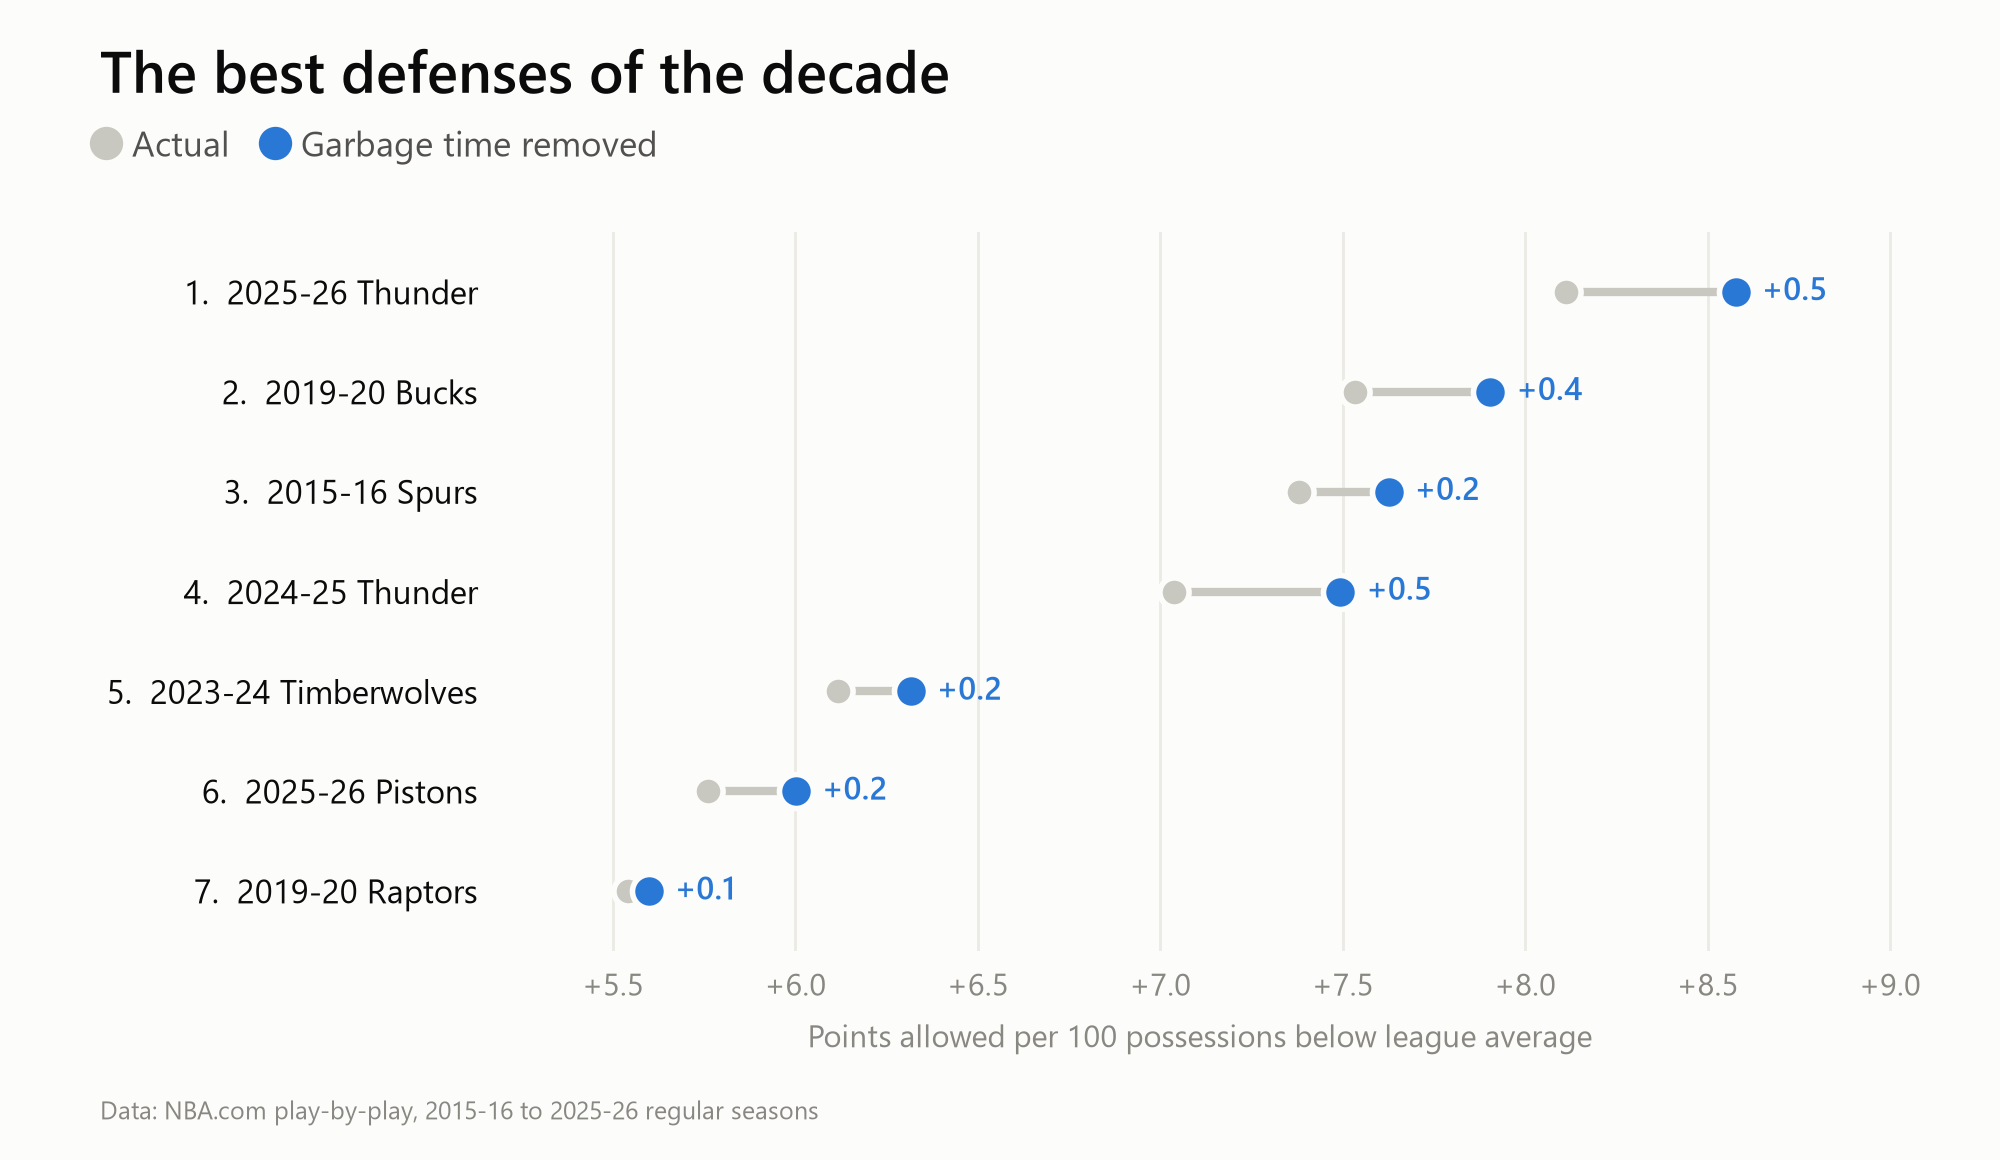
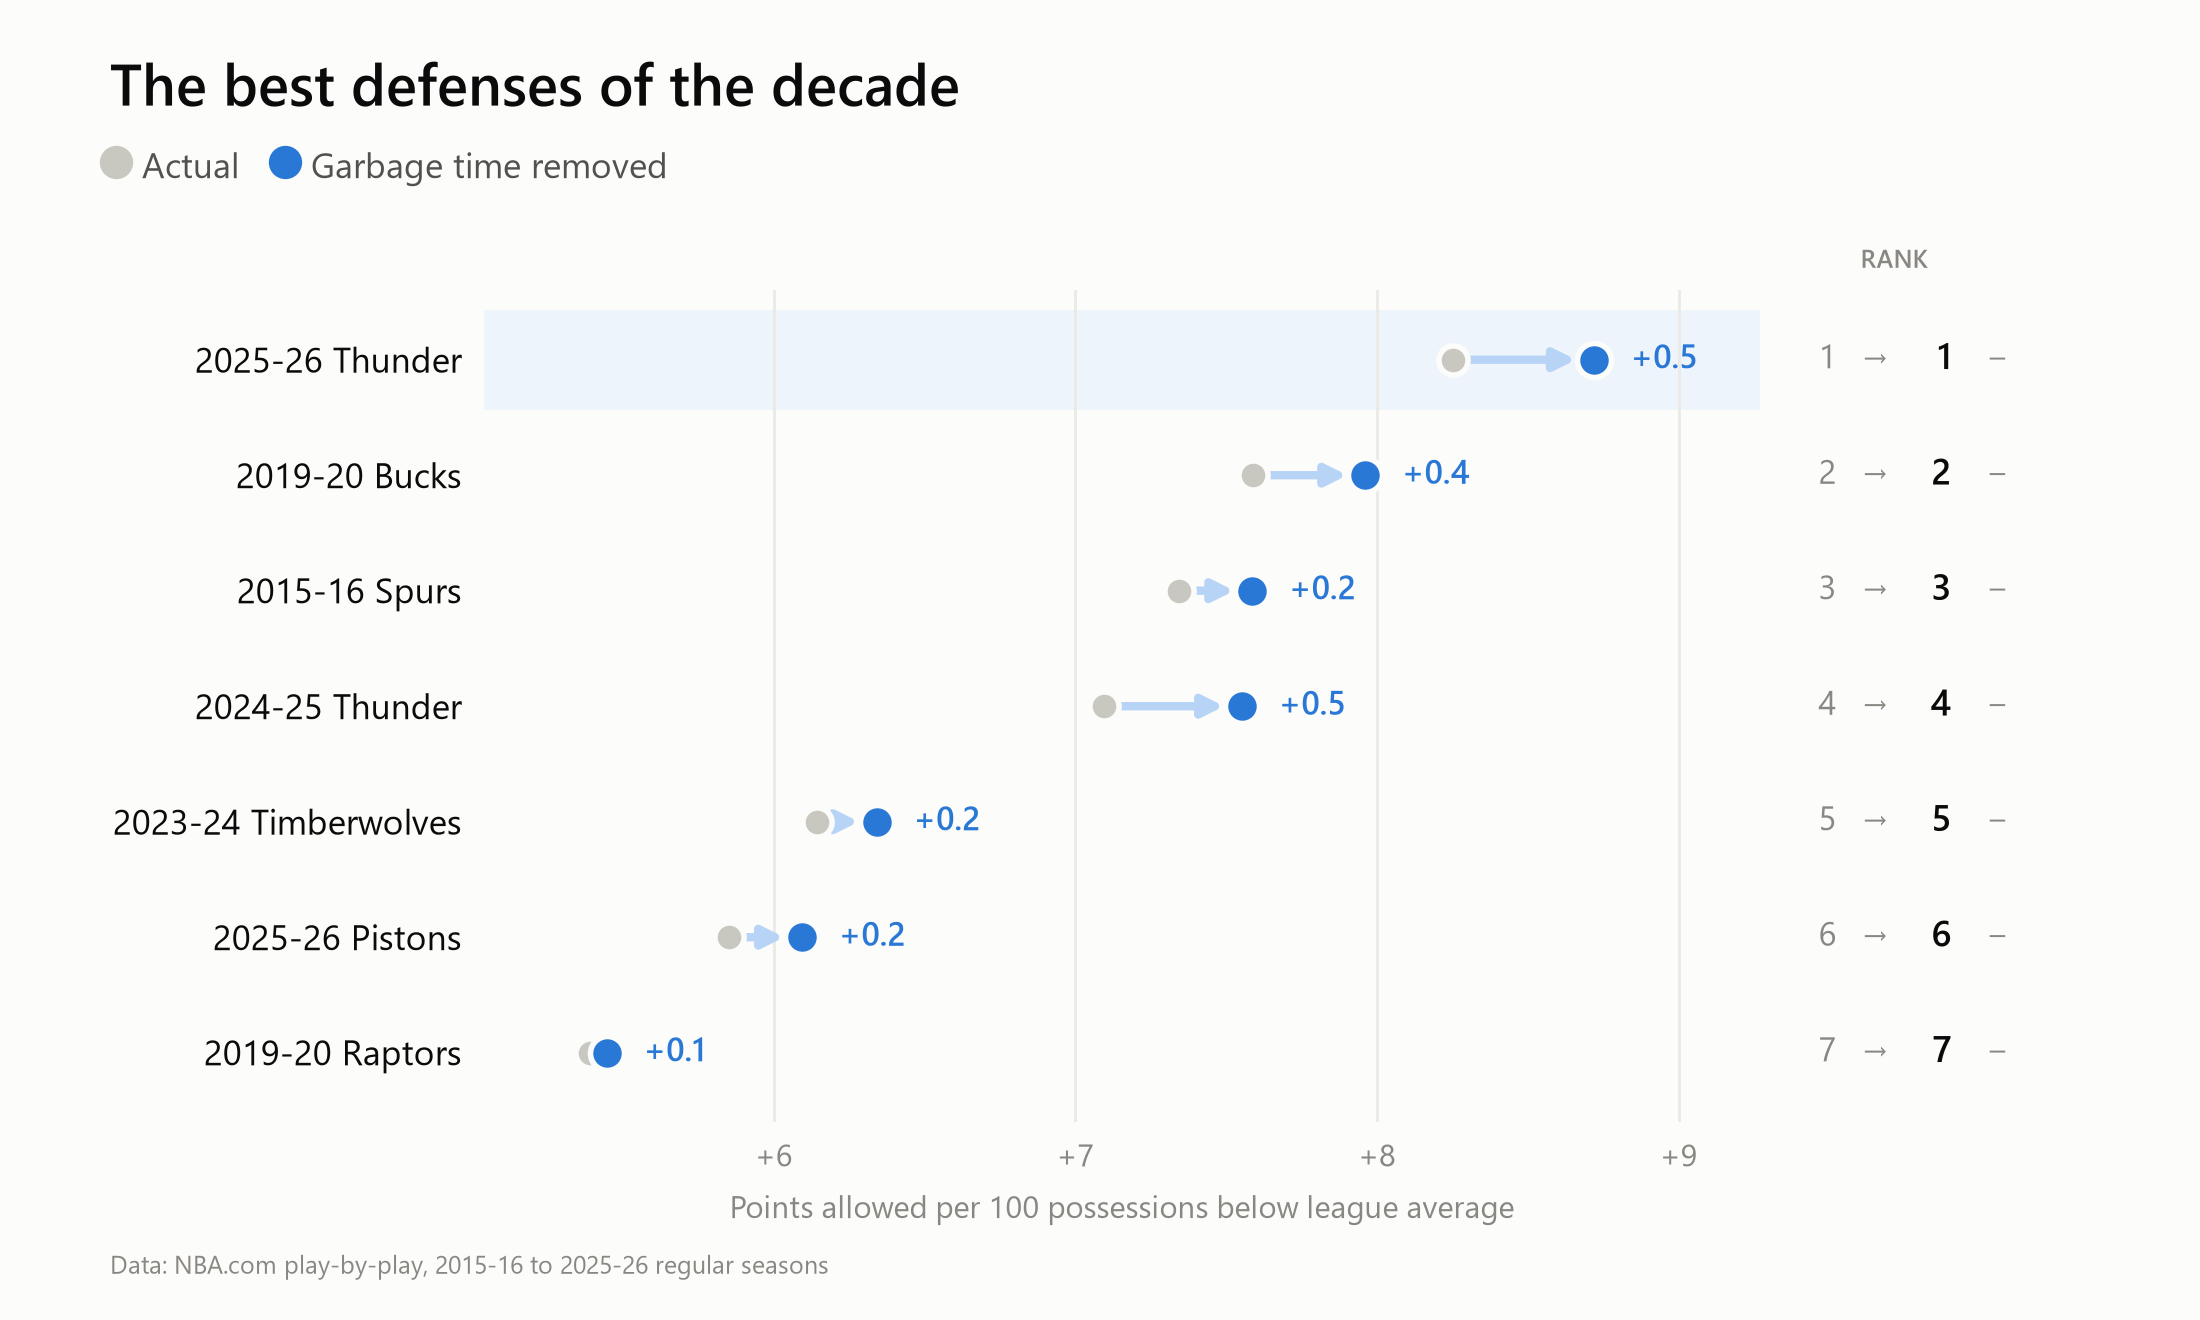
added article link on medium

diff --git a/make_article_charts.py b/make_article_charts.py
@@ -290,11 +290,21 @@ def chart_top_units(ratings):
         lambda x: 100 * x.actual_pts.sum() / x.actual_poss.sum(), include_groups=False)
     lg_m = r.groupby("season").apply(
         lambda x: 100 * x.mercy_pts.sum() / x.mercy_poss.sum(), include_groups=False)
-    r["off_a"] = r.actual_ortg - r.season.map(lg_a)
-    r["off_m"] = r.mercy_ortg - r.season.map(lg_m)
+    # Offense and defense on NBA.com's official base, like the tables (10/11):
+    # after = official rating + our play-by-play change, against a league
+    # average shifted by the same play-by-play change.
+    o = official_ratings()
+    r = r.merge(o[["season", "TEAM_NAME", "OFF_RATING", "DEF_RATING",
+                   "LG_OFF_RATING", "LG_DEF_RATING"]],
+                left_on=["season", "team"], right_on=["season", "TEAM_NAME"], how="left")
+    if r.OFF_RATING.isna().any():
+        raise ValueError("Team names did not match the official ratings")
+    shift = r.season.map(lg_m) - r.season.map(lg_a)
+    r["off_a"] = r.OFF_RATING - r.LG_OFF_RATING
+    r["off_m"] = (r.OFF_RATING + r.mercy_ortg - r.actual_ortg) - (r.LG_OFF_RATING + shift)
     # Defense flipped so that "better than average" is positive / to the right.
-    r["def_a"] = r.season.map(lg_a) - r.actual_drtg
-    r["def_m"] = r.season.map(lg_m) - r.mercy_drtg
+    r["def_a"] = r.LG_DEF_RATING - r.DEF_RATING
+    r["def_m"] = (r.LG_DEF_RATING + shift) - (r.DEF_RATING + r.mercy_drtg - r.actual_drtg)
 
     # Net rating on NBA.com's official base (it is comparable across seasons),
     # so the chart matches nba.com/stats and team_ratings_2015-2026.csv.
@@ -315,8 +325,7 @@ def chart_top_units(ratings):
     ):
         r["rank_before"] = r[f"{side}_a"].rank(ascending=False, method="min").astype(int)
         r["rank_after"] = r[f"{side}_m"].rank(ascending=False, method="min").astype(int)
-        dumbbell(r.nsmallest(7, "rank_after"), f"{side}_a", f"{side}_m",
-                 title, xlabel, name)
+        rank_chart(r, f"{side}_a", f"{side}_m", title, xlabel, name)
         top = r[(r.rank_before <= 7) | (r.rank_after <= 7)]
         panels.append((("Offense" if side == "off" else "Defense"),
                        top[["season", "team", "rank_before", "rank_after"]].copy()))
@@ -325,24 +334,38 @@ def chart_top_units(ratings):
 
 def chart_best_net(r, n=7, worst=False):
     """Best (or worst) net ratings: each team's change plus its rank before -> after."""
-    r = r.copy()
-    r["rank_before"] = r.net_a.rank(ascending=worst, method="min").astype(int)
-    r["rank_after"] = r.net_m.rank(ascending=worst, method="min").astype(int)
-    data = r[(r.rank_before <= n) | (r.rank_after <= n)]
-    data = data.sort_values(["rank_after", "net_m"], ascending=[True, worst]).iloc[::-1]
+    rank_chart(r, "net_a", "net_m",
+               f"The {'worst' if worst else 'best'} teams of the decade",
+               "Net rating (point differential per 100 possessions)",
+               "14_worst_net_ratings.png" if worst else "09_top_net_ratings.png",
+               n=n, worst=worst)
 
-    title = f"The {'worst' if worst else 'best'} teams of the decade"
-    fig, ax = frame(title, figsize=(11, 6.6), left=0.22)
+
+def rank_chart(r, col_a, col_m, title, xlabel, name, n=7, worst=False, ascending=None):
+    """Arrows from actual to no-garbage-time value, plus a rank before -> after column.
+
+    worst: the list ranks bad teams (moving up the list is bad, colored orange).
+    ascending: rank 1 is the lowest value (defaults to `worst`, as for net rating).
+    """
+    if ascending is None:
+        ascending = worst
+    r = r[["season", "team", col_a, col_m]].rename(columns={col_a: "net_a", col_m: "net_m"})
+    r["rank_before"] = r.net_a.rank(ascending=ascending, method="min").astype(int)
+    r["rank_after"] = r.net_m.rank(ascending=ascending, method="min").astype(int)
+    data = r[(r.rank_before <= n) | (r.rank_after <= n)]
+    data = data.sort_values(["rank_after", "net_m"], ascending=[True, ascending]).iloc[::-1]
+
+    fig, ax = frame(title, figsize=(11, 6.6 + 0.45 * max(0, len(data) - 8)), left=0.22)
     fig.subplots_adjust(right=0.80, bottom=0.15, top=0.78)
     legend_line(fig, [("●", BEFORE, False), (" Actual    ", INK_2, False),
                       ("●", BLUE, False), (" Garbage time removed", INK_2, False)])
     y = list(range(len(data)))
     lo, hi = min(data.net_a.min(), data.net_m.min()), max(data.net_a.max(), data.net_m.max())
-    ax.set_xlim(lo - (0.75 if worst else 0.35), hi + (0.35 if worst else 0.55))
+    ax.set_xlim(lo - (0.75 if ascending else 0.35), hi + (0.35 if ascending else 0.55))
     ax.set_ylim(-0.6, len(data) - 0.4)
 
     change = data.net_m - data.net_a
-    biggest = change.idxmin() if worst else change.idxmax()
+    biggest = change.idxmin() if ascending else change.idxmax()
     for i, row in enumerate(data.itertuples()):
         if row.Index == biggest:
             ax.axhspan(i - 0.42, i + 0.42, color="#fdeee7" if worst else "#eef4fc",
@@ -352,13 +375,15 @@ def chart_best_net(r, n=7, worst=False):
                     arrowprops=dict(arrowstyle="-|>,head_width=0.25,head_length=0.5",
                                     color=BLUE_LIGHT, linewidth=3, shrinkA=4, shrinkB=0),
                     zorder=1)
-        text = f"{row.net_m - row.net_a:+.1f}".replace("-", "−")
-        if worst:
+        diff = round(row.net_m - row.net_a, 1)
+        text = "no change" if diff == 0 else f"{diff:+.1f}".replace("-", "−")
+        ink = MUTED if diff == 0 else BLUE
+        if ascending:
             ax.text(min(row.net_a, row.net_m) - 0.12, i, text, ha="right",
-                    va="center", fontsize=12, fontname=FONT_BOLD, color=BLUE)
+                    va="center", fontsize=12, fontname=FONT_BOLD, color=ink)
         else:
             ax.text(max(row.net_a, row.net_m) + 0.12, i, text,
-                    va="center", fontsize=12, fontname=FONT_BOLD, color=BLUE)
+                    va="center", fontsize=12, fontname=FONT_BOLD, color=ink)
         # Rank column, outside the plot on the right.
         moved = row.rank_after - row.rank_before
         # Up the list is good on the best chart, bad on the worst chart.
@@ -384,10 +409,10 @@ def chart_best_net(r, n=7, worst=False):
     ax.set_yticks(y, [label(t) for t in data.itertuples()], color=INK, fontsize=12.5)
     ax.xaxis.set_major_locator(matplotlib.ticker.MultipleLocator(1))
     ax.xaxis.set_major_formatter(lambda v, _: f"{v:+.0f}".replace("-", "−"))
-    ax.set_xlabel("Net rating (point differential per 100 possessions)", labelpad=8)
+    ax.set_xlabel(xlabel, labelpad=8)
     ax.spines["bottom"].set_visible(False)
     grid(ax, "x")
-    save(fig, "14_worst_net_ratings.png" if worst else "09_top_net_ratings.png")
+    save(fig, name)
 
 
 def chart_three_ratings(r, n=5):
@@ -539,11 +564,9 @@ def worst_defenses(ratings, n=10):
         r.LG_DEF_RATING + r.season.map(lg_m) - r.season.map(lg_a))
     r["rank_before"] = r.bad_a.rank(ascending=False, method="min").astype(int)
     r["rank_after"] = r.bad_m.rank(ascending=False, method="min").astype(int)
-    top = r[r.rank_before <= n].sort_values("rank_before")
-    dumbbell(top.assign(rank_after=top.rank_before), "bad_a", "bad_m",
-             "The worst defenses of the decade",
-             "Points allowed per 100 possessions above league average",
-             "13_worst_defenses.png")
+    rank_chart(r, "bad_a", "bad_m", "The worst defenses of the decade",
+               "Points allowed per 100 possessions above league average",
+               "13_worst_defenses.png", n=n, worst=True, ascending=False)
 
 
 def chart_rank_shuffle(panels):

diff --git a/README.md b/README.md
@@ -28,7 +28,7 @@ The rule (first condition met ends the game):
   Thunder go from +12.7 to +13.9 net rating; the 2024-25 Wizards from
   −12.2 to −13.4.
 
-Article: [link]
+Article: https://medium.com/@mounirarayssi/what-if-the-nba-had-a-mercy-rule-7f4c70c32959?sharedUserId=mounirarayssi 
 
 ![The best teams of the decade](output/article_charts/09_top_net_ratings.png)
 
@@ -199,4 +199,4 @@ python check_possessions.py --season 2018-19 --games 30
 7. **API access varies.** stats.nba.com sometimes blocks or times out
    requests. Keep the request delay and the cache.
 
-   
+
